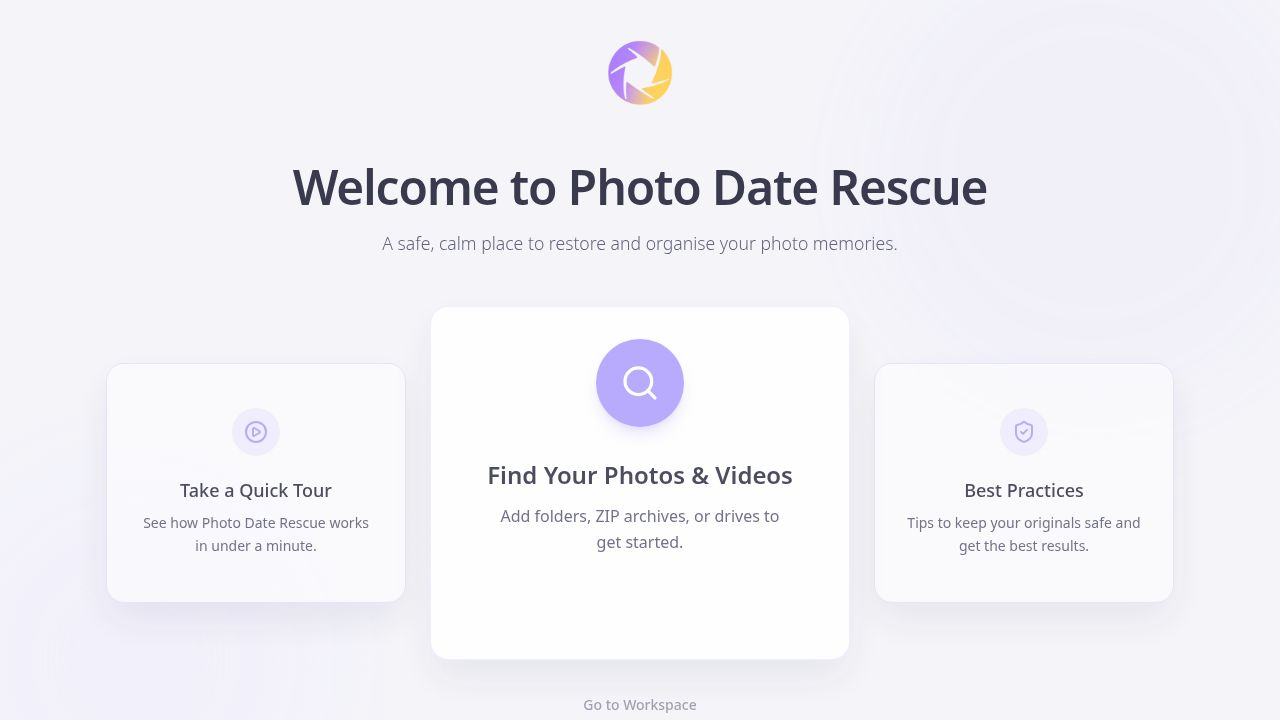
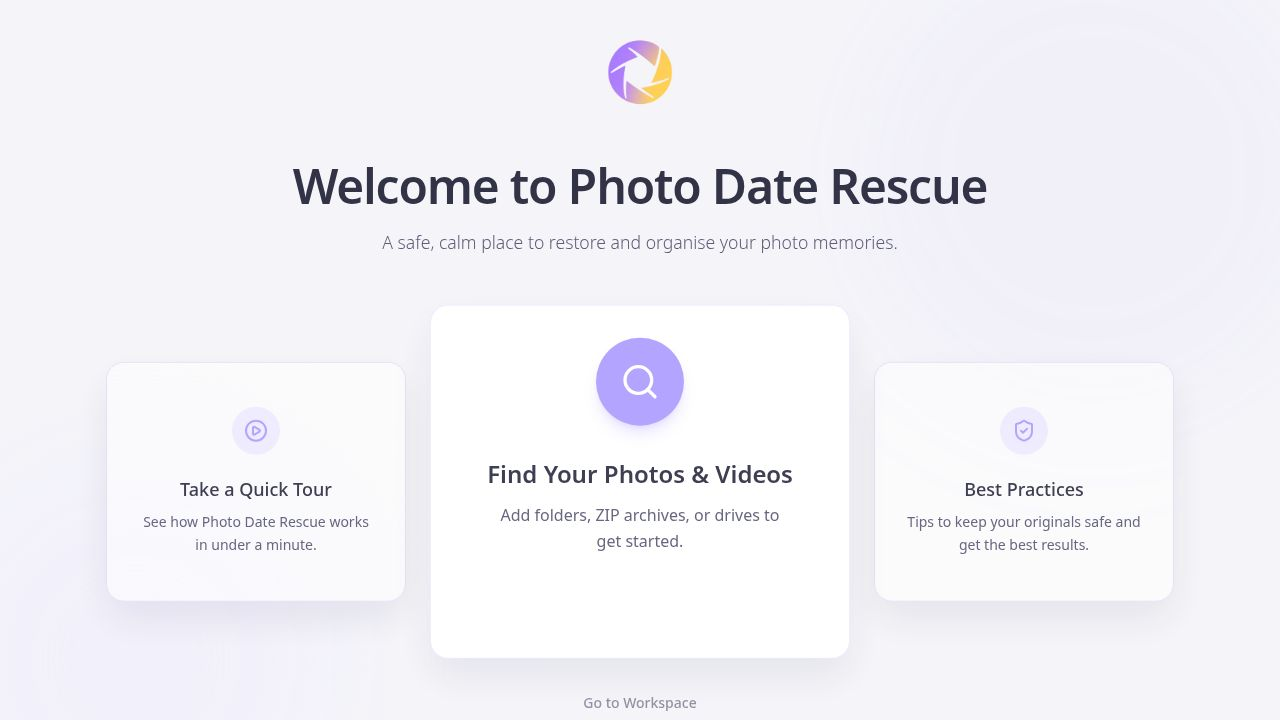
Improve tour experience and add welcome screen toggle
Update tour step positioning, modify tour step descriptions, adjust the Quick Tour icon color, and add a toggle in settings to control the visibility of the welcome screen.

Replit-Commit-Author: Agent
Replit-Commit-Session-Id: 1f579fdf-c860-4ad2-9fcb-3534a4b3d839
Replit-Commit-Checkpoint-Type: intermediate_checkpoint
Replit-Commit-Event-Id: fd80993a-7fbe-4303-9573-04a9b2a6db05
Replit-Commit-Screenshot-Url: https://storage.googleapis.com/screenshot-production-us-central1/8d459762-e6df-4223-9b3d-017ad209955e/1f579fdf-c860-4ad2-9fcb-3534a4b3d839/y2VnnpF
Replit-Helium-Checkpoint-Created: true

diff --git a/client/src/pages/workspace.tsx b/client/src/pages/workspace.tsx
@@ -971,7 +971,7 @@ function Sidebar({ sources, onSourceClick, onSelectAll, isComplete, onAddSource,
       <div className="pt-2 border-t border-sidebar-border/0 pb-2" data-tour="guides-panel">
         <h3 className="text-xs font-semibold text-muted-foreground uppercase tracking-wider mb-3 px-6">Guidance</h3>
         <div className="space-y-1 px-4">
-          <SidebarItem icon={<PlayCircle className="w-4 h-4 text-primary" />} label="Quick Tour" onClick={onStartTour} />
+          <SidebarItem icon={<PlayCircle className="w-4 h-4 opacity-60" />} label="Quick Tour" onClick={onStartTour} />
           <SidebarItem icon={<img src="/Assets/pdr-getting-started.png" className="w-4 h-4 object-contain" alt="Getting Started" />} label="Getting Started" onClick={() => onPanelChange('getting-started')} active={activePanel === 'getting-started'} />
           <SidebarItem icon={<img src="/Assets/pdr-best-practices.png" className="w-4 h-4 object-contain" alt="Best Practices" />} label="Best Practices" onClick={() => onPanelChange('best-practices')} active={activePanel === 'best-practices'} />
           <SidebarItem icon={<img src="/Assets/pdr-what-happens-next.png" className="w-4 h-4 object-contain" alt="What Happens Next" />} label="What Happens Next" onClick={() => onPanelChange('what-next')} active={activePanel === 'what-next'} />
@@ -4573,11 +4573,35 @@ function SourceAddedModal({ source, stats, onAddToWorkspace, onChangeSource, onC
   );
 }
 
+const SKIP_WELCOME_KEY = 'pdr-skip-welcome';
+
+export function getSkipWelcomeScreen(): boolean {
+  if (typeof window === 'undefined') return false;
+  return localStorage.getItem(SKIP_WELCOME_KEY) === 'true';
+}
+
+export function setSkipWelcomeScreen(skip: boolean): void {
+  if (typeof window !== 'undefined') {
+    if (skip) {
+      localStorage.setItem(SKIP_WELCOME_KEY, 'true');
+    } else {
+      localStorage.removeItem(SKIP_WELCOME_KEY);
+    }
+  }
+}
+
 function SettingsModal({ onClose, folderStructure, onFolderStructureChange }: { 
   onClose: () => void, 
   folderStructure: 'year' | 'year-month' | 'year-month-day',
   onFolderStructureChange: (value: 'year' | 'year-month' | 'year-month-day') => void 
 }) {
+  const [showWelcome, setShowWelcome] = useState(!getSkipWelcomeScreen());
+
+  const handleWelcomeToggle = (checked: boolean) => {
+    setShowWelcome(checked);
+    setSkipWelcomeScreen(!checked);
+  };
+
   const options = [
     { value: 'year' as const, label: 'Year', example: '2024/' },
     { value: 'year-month' as const, label: 'Year / Month', example: '2024/03/' },
@@ -4650,6 +4674,23 @@ function SettingsModal({ onClose, folderStructure, onFolderStructureChange }: {
                 </label>
               ))}
             </div>
+          </div>
+
+          <div className="pt-4 border-t border-border">
+            <label className="block text-sm font-medium text-foreground mb-3">
+              Welcome Screen
+            </label>
+            <label className="flex items-center justify-between p-3 rounded-lg border border-border hover:border-primary/50 cursor-pointer transition-colors">
+              <div className="flex flex-col">
+                <span className="text-sm font-medium text-foreground">Show Welcome Screen on launch</span>
+                <span className="text-xs text-muted-foreground">Display the onboarding screen when the app starts</span>
+              </div>
+              <Checkbox 
+                checked={showWelcome}
+                onCheckedChange={(checked) => handleWelcomeToggle(!!checked)}
+                data-testid="checkbox-show-welcome"
+              />
+            </label>
           </div>
         </div>
 

diff --git a/client/src/components/ui/tour-overlay.tsx b/client/src/components/ui/tour-overlay.tsx
@@ -325,7 +325,7 @@ export const TOUR_STEPS: TourStep[] = [
     id: 'confidence-cards',
     targetSelector: '[data-tour="confidence-cards"]',
     title: 'Date Confidence Breakdown',
-    description: 'These cards show how dates were determined. Confirmed means the date came from embedded metadata (highest confidence). Recovered means the date was extracted from structured filename patterns. Marked means no reliable date was found — fallback rules will be applied.',
+    description: 'These cards show a preliminary indication of how dates were determined. Confirmed = embedded metadata, Recovered = filename patterns, Marked = fallback rules. Note: These are initial estimates. The final, authoritative results appear in your Fix Report after running the fix.',
     position: 'bottom',
     highlightPadding: 12
   },
@@ -350,7 +350,7 @@ export const TOUR_STEPS: TourStep[] = [
     targetSelector: '[data-tour="apply-fixes"]',
     title: 'Apply Fixes',
     description: 'When you\'re ready, click here to start the fix process. PDR will copy your files to the destination with corrected dates. A detailed report is saved automatically.',
-    position: 'top',
+    position: 'left',
     highlightPadding: 8
   },
   {
@@ -358,7 +358,7 @@ export const TOUR_STEPS: TourStep[] = [
     targetSelector: '[data-tour="guides-panel"]',
     title: 'Guides & Help',
     description: 'Need guidance? The side panel has step-by-step guides, best practices, and answers to common questions. It\'s your go-to resource while working.',
-    position: 'left',
+    position: 'right',
     highlightPadding: 12
   },
   {
@@ -366,7 +366,7 @@ export const TOUR_STEPS: TourStep[] = [
     targetSelector: '[data-tour="reports-history"]',
     title: 'Reports History',
     description: 'Every fix run creates a report. Access your complete history here to review past jobs, export data, or verify what was changed.',
-    position: 'top',
+    position: 'left',
     highlightPadding: 8
   },
   {

diff --git a/client/src/pages/home.tsx b/client/src/pages/home.tsx
@@ -1,4 +1,4 @@
-import { useState } from "react";
+import { useState, useEffect } from "react";
 import { useLocation } from "wouter";
 import { motion, Variants } from "framer-motion";
 import { Search, PlayCircle, ShieldCheck, ArrowRight, Check } from "lucide-react";
@@ -7,9 +7,30 @@ import { Checkbox } from "@/components/ui/checkbox";
 import { Card } from "@/components/ui/custom-card";
 import { resetTourCompletion } from "@/components/ui/tour-overlay";
 
+const SKIP_WELCOME_KEY = 'pdr-skip-welcome';
+
+function getSkipWelcomeScreen(): boolean {
+  if (typeof window === 'undefined') return false;
+  return localStorage.getItem(SKIP_WELCOME_KEY) === 'true';
+}
+
+function setSkipWelcomeScreen(skip: boolean): void {
+  if (typeof window !== 'undefined') {
+    if (skip) {
+      localStorage.setItem(SKIP_WELCOME_KEY, 'true');
+    } else {
+      localStorage.removeItem(SKIP_WELCOME_KEY);
+    }
+  }
+}
+
 export default function Home() {
   const [, setLocation] = useLocation();
   const [skipScreen, setSkipScreen] = useState(false);
+
+  useEffect(() => {
+    setSkipScreen(getSkipWelcomeScreen());
+  }, []);
 
   const container: Variants = {
     hidden: { opacity: 0 },
@@ -105,7 +126,11 @@ export default function Home() {
             <Checkbox 
               id="skip" 
               checked={skipScreen}
-              onCheckedChange={(checked) => setSkipScreen(checked === true)}
+              onCheckedChange={(checked) => {
+                const isChecked = checked === true;
+                setSkipScreen(isChecked);
+                setSkipWelcomeScreen(isChecked);
+              }}
               className="border-muted-foreground/30 data-[state=checked]:bg-primary data-[state=checked]:text-primary-foreground"
             />
             <label
